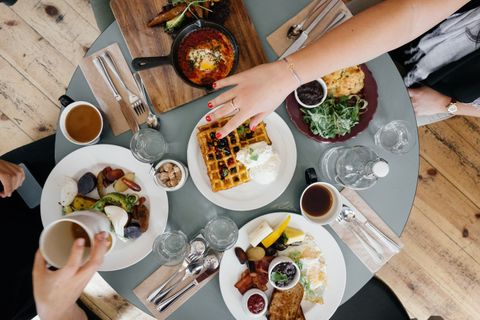
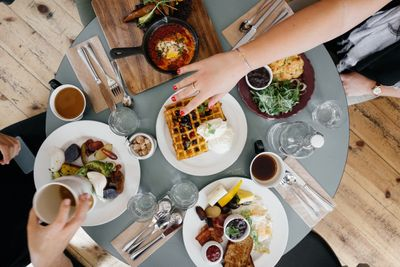
performance optimization

diff --git a/src/scss/main.scss b/src/scss/main.scss
@@ -11,22 +11,11 @@
 @use 'like-button';
 @import url('https://fonts.googleapis.com/css2?family=Poppins:wght@300;400;500;600;700;800&display=swap');
 
-@keyframes opacityAnimation {
-  from {
-      opacity: 0%;
-  }
-
-  to {
-      opacity: 100%;
-  }
-}
-
 * {
   padding: 0;
   margin: 0;
   box-sizing: border-box;
   font-family: 'Poppins', sans-serif;
-  animation: opacityAnimation 200ms;
 }
 
 main {

diff --git a/webpack.prod.js b/webpack.prod.js
@@ -10,6 +10,10 @@ const common = require('./webpack.common');
 
 module.exports = merge(common, {
   mode: 'production',
+  output: {
+    filename: '[name].[contentHash].bundle.js',
+    path: path.resolve(__dirname, 'dist'),
+  },
   module: {
     rules: [
       {

diff --git a/sharp.js b/sharp.js
@@ -21,7 +21,7 @@ target.forEach((image) => {
     );
 
   sharp(hero)
-    .resize(480)
+    .resize(400)
     .toFile(
       path.resolve(
         __dirname,
